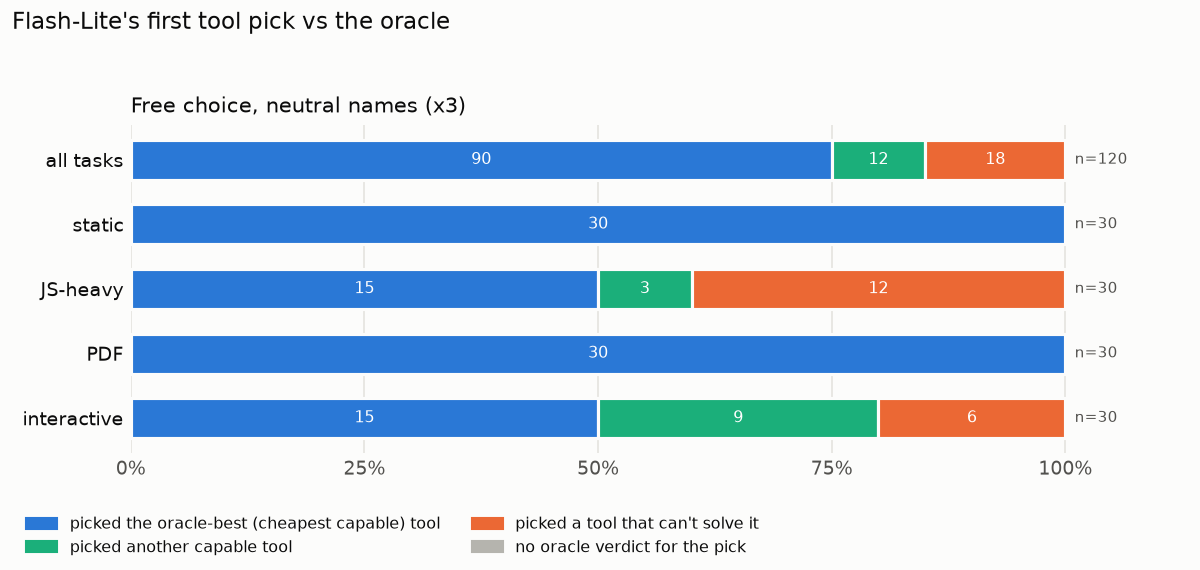
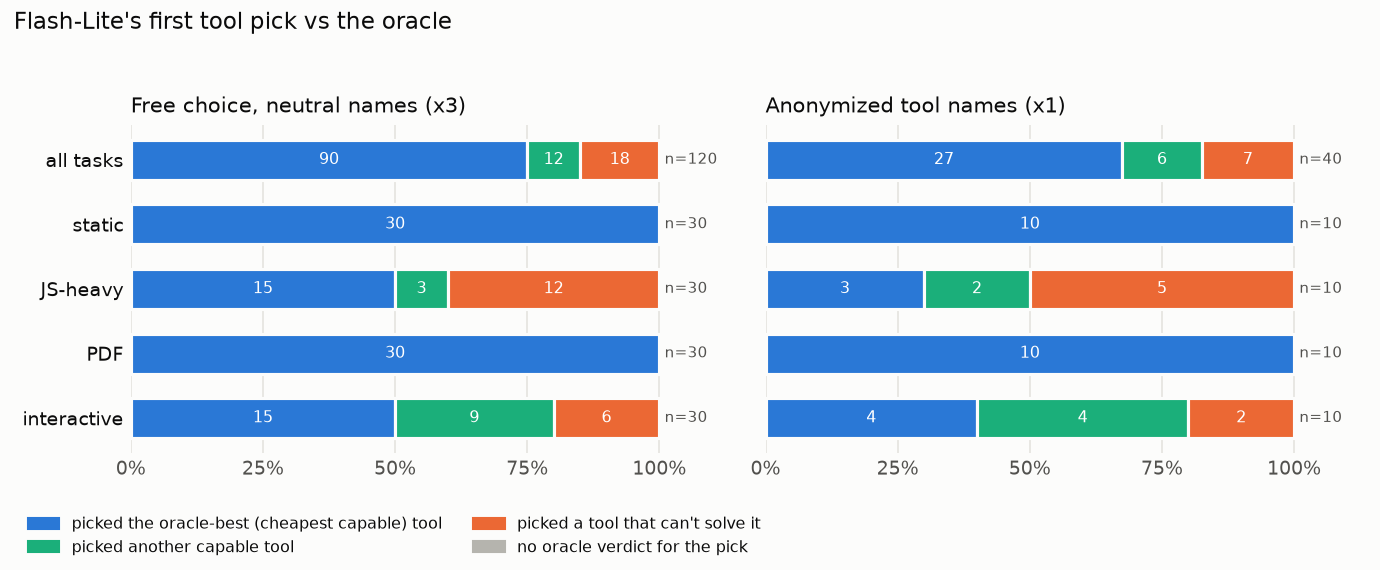
Anonymized-names ablation results; chart 2 with both runs; README findings

diff --git a/src/bench/report.py b/src/bench/report.py
@@ -131,10 +131,10 @@ def chart_pick_vs_best(tasks: list[dict], runs: list[tuple[str, Path]], out: Pat
                 left += share
             ax.text(101, yi, f"n={sum(cnt.values())}", va="center", fontsize=7, color=INK2)
         ax.set_yticks(range(len(rows)), ["all tasks"] + [CAT_LABEL[c] for c in CATS], color=INK)
-        ax.invert_yaxis()
         ax.set_xlim(0, 112)
         ax.set_xticks([0, 25, 50, 75, 100], ["0%", "25%", "50%", "75%", "100%"])
         ax.set_title(label, loc="left", fontsize=10, color=INK)
+    axes[0][0].invert_yaxis()  # shared y: invert once, not per panel
     handles = [plt.Rectangle((0, 0), 1, 1, color=KIND_COLOR[k]) for k in KINDS]
     fig.legend(handles, ["picked the oracle-best (cheapest capable) tool", "picked another capable tool",
                          "picked a tool that can't solve it", "no oracle verdict for the pick"],

diff --git a/runs/20261109T085011Z_flash-lite_anon/summary.md b/runs/20261109T085011Z_flash-lite_anon/summary.md
@@ -1,0 +1,62 @@
+# Free choice: flash-lite (20261109T085011Z_flash-lite_anon)
+
+40 rows (40 tasks x up to 1 reps). Status: paused.
+
+## Outcomes
+
+| category | correct | wrong | abstained | pending | n |
+|---|---|---|---|---|---|
+| static | 9 | 0 | 0 | 1 | 10 |
+| js_heavy | 5 | 1 | 1 | 3 | 10 |
+| pdf | 9 | 0 | 0 | 1 | 10 |
+| interactive | 8 | 1 | 1 | 0 | 10 |
+| **total** | 31 | 2 | 2 | 5 | 40 |
+
+## First pick by category
+
+| category | plain | firecrawl | tf_fetch | tf_agent | none |
+|---|---|---|---|---|---|
+| static | 10 | 0 | 0 | 0 | 0 |
+| js_heavy | 5 | 1 | 4 | 0 | 0 |
+| pdf | 10 | 0 | 0 | 0 | 0 |
+| interactive | 6 | 0 | 1 | 3 | 0 |
+
+All tool calls (any position): plain 37, firecrawl 6, tf_fetch 7, tf_agent 13
+
+## Selection accuracy (first pick vs oracle `can`)
+
+Y = first pick can solve the task, n = it can't, ? = no oracle verdict for that cell (excluded).
+
+| category | Y | n | ? | accuracy (Y / (Y+n)) |
+|---|---|---|---|---|
+| static | 10 | 0 | 0 | 10/10 (100%) |
+| js_heavy | 5 | 5 | 0 | 5/10 (50%) |
+| pdf | 10 | 0 | 0 | 10/10 (100%) |
+| interactive | 8 | 2 | 0 | 8/10 (80%) |
+| total | 33 | 7 | 0 | 33/40 (82%) |
+
+**Outcome by first-pick verdict**
+
+| first pick | correct | wrong | abstained | pending |
+|---|---|---|---|---|
+| Y | 29 | 0 | 1 | 3 |
+| n | 2 | 2 | 1 | 2 |
+
+## Regret
+
+Rows on feasible tasks (some tool can solve): 40. Not correct despite a can=Y tool: 4.
+
+- after a can=n / unknown first pick (selection): 3: j02r0(abst), j10r0(wron), i09r0(wron)
+- after a can=Y first pick (extraction, wrong page, gave up): 1: i10r0(abst)
+- infeasible tasks (no tool can): -
+
+## Consistency
+
+Same first pick in all reps: 40/40 (100%) tasks.
+
+## Cost and latency
+
+- LLM requests 103, tokens in/out 280600/3754
+- tool calls 63 (mean 1.57/row); Firecrawl credits 10; TinyFish agent 56 steps, $0.896
+- tool time per row: median 3.4 s, max 45.6 s
+- list price of the run: $1.040 (actual $0)

diff --git a/README.md b/README.md
@@ -75,7 +75,13 @@ It runs 40 tasks with checkable answers and scores two things. First, whether ea
 
 **5. The browser agent was expensive and rarely chosen.** In free choice it handled 25 of 189 tool calls, using 121 steps (about $1.94 at list price, paid from TinyFish signup credit). It was the first pick in only 3 of 120 rows.
 
-**Ablation (anonymized names).** The run was in progress when this was published; results land in `runs/*_flash-lite_anon/` and in the chart above once complete.
+**6. Brand names barely matter; the cost/JS cue in the description does.** With the tools renamed `tool_1`…`tool_4` and brands stripped from the descriptions (40 tasks × 1 rep):
+- The first pick could solve the task in **33/40 (82%)**, vs 85% with names. It was oracle-best in 27/40 (68%), vs 75%.
+- Plain fetch is still the first pick in 31/40 rows.
+- The shift is on JS-heavy tasks: without names, the model moved some first picks from plain fetch to `tool_3` (TinyFish Fetch, 4 of 10). That's the weakest JS tool in the oracle, so JS selection got slightly worse (5/10, vs 18/30).
+- The browser agent was the first pick for 3 of 10 interactive tasks, vs 3 of 30 rows with names.
+- With one rep this is a direction, not a significant effect.
+- Outcomes: 31 correct, 2 wrong, 2 abstained, 5 pending judge.
 
 ## Limitations
 

diff --git a/NOTES.md b/NOTES.md
@@ -477,3 +477,8 @@ check and writes `tasks/plain_visibility.json`.
   at 45/120 rows and resumes after the 08:00 UTC reset.
 - Judge budget: 15 free-choice judge calls (5 judge tasks x 3) + 4 pending oracle cells = 19
   against the Flash stop at 18, so one verdict may roll to the following day.
+
+- Free choice finished 2026-11-09 08:50 UTC: 120 rows, 14 judge-pending (the Flash judge quota ran
+  out again right after the reset). The anon ablation (`--mode anon`, names tool_1..4, brand-free
+  descriptions kept in code so the experiment hash is unchanged) finished at 40/40 with 5 judge-pending.
+  Rerun both commands after the next reset to fill in the judge verdicts.
